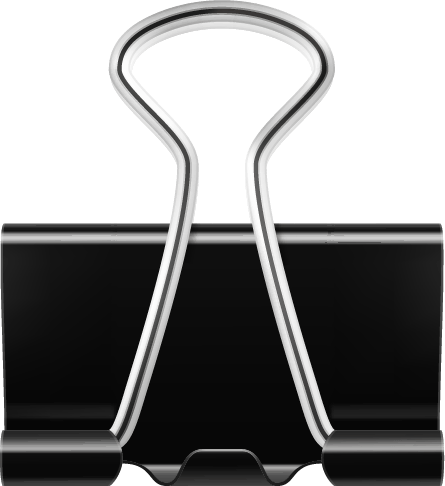
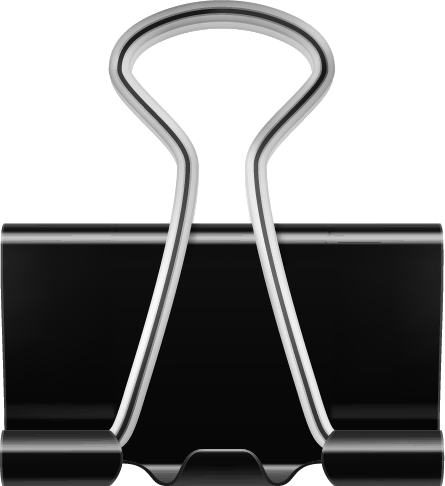
refactoring

Changed region(s): [[0.2337, 0.0, 0.7596, 0.2778]]

diff --git a/css/layout.css b/css/layout.css
@@ -1,1 +1,1 @@
-@media screen and (max-width: 1439px){#home{background:var(--color-pink-deep)}}#home main{background:var(--color-pink);box-shadow:0 0 0 calc(var(--unit)*4) var(--color-pink)}@media screen and (min-width: 1440px){#home main{margin:calc(var(--unit)*10) auto calc(var(--unit)*10)}}#home main #binder{position:absolute;top:calc(var(--unit)*-8.25);right:3rem;width:calc(var(--unit)*6.5);filter:drop-shadow(1px 2px 4px rgba(0, 0, 0, 0.48))}@media screen and (max-width: 1439px){#home main #binder{display:none}}@media(prefers-color-scheme: dark){#home main #binder{filter:drop-shadow(1px 2px 4px rgba(0, 0, 0, 0.48)) brightness(88%)}}#home #intro .cell:nth-child(1),#home #intro .cell:nth-child(3){grid-column:span 4}@media screen and (max-width: 1023px){#home #intro .cell:nth-child(1),#home #intro .cell:nth-child(3){grid-column:span 2}}#home #intro .cell:nth-child(2){justify-content:center}#home #intro .cell:nth-child(2) h3{margin:0}#home #intro .cell h2{margin:0}#home #highlight .tag{margin-top:calc(var(--unit)*.5)}#home h2{margin-top:calc(var(--unit)*4)}#home picture{grid-column:span 4}@media screen and (max-width: 1023px){#home picture{grid-column:span 2}}#home .cell{grid-column:span 2}#home .cell h3{margin-bottom:calc(var(--unit)*.25)}@media screen and (max-width: 1439px){#content{background:var(--color-background-deep)}}#content p,#content picture,#content hr{margin-bottom:calc(var(--unit)*3)}#content h2{margin-bottom:calc(var(--unit)*1)}#content h3{margin-bottom:calc(var(--unit)*.25)}#content .caption{margin:calc(var(--unit)*.5) 0 0}#content .cell h1:nth-last-child(1),#content .cell h2:nth-last-child(1),#content .cell h3:nth-last-child(1),#content .cell p:nth-last-child(1),#content .cell picture:nth-last-child(1),#content .cell hr:nth-last-child(1),#content .row h1:nth-last-child(1),#content .row h2:nth-last-child(1),#content .row h3:nth-last-child(1),#content .row p:nth-last-child(1),#content .row picture:nth-last-child(1),#content .row hr:nth-last-child(1){margin-bottom:0}#content .cell{grid-column:2/span 4}@media screen and (max-width: 1023px){#content .cell{grid-column:1/-1;margin:0 calc(var(--unit)*4)}}@media screen and (max-width: 644px){#content .cell{margin:0}}#content .cell:nth-child(1){grid-column:span 1;margin-bottom:calc(var(--unit)*3)}@media screen and (max-width: 1023px){#content .cell:nth-child(1){grid-column:1/-1;margin-right:0;margin-left:0}}#content .cell:nth-child(1) a{display:flex;align-items:center;gap:.25rem}#content .cell:nth-child(2){margin-bottom:calc(var(--unit)*3)}#content .cell .stacks{display:flex;flex-wrap:wrap;align-items:center;justify-content:center;gap:calc(var(--unit)*1.5);width:100%;margin-top:calc(var(--unit)*1.5)}#content .cell .stacks picture{width:48px;margin:0}
+@media screen and (max-width: 1439px){#home{background:var(--color-pink-deep)}}#home main{background:var(--color-pink);box-shadow:0 0 0 calc(var(--unit)*4) var(--color-pink)}@media screen and (min-width: 1440px){#home main{margin:calc(var(--unit)*10) auto calc(var(--unit)*10)}}#home main #binder{position:absolute;top:calc(var(--unit)*-8.5);right:3rem;width:calc(var(--unit)*6.5);transform:rotate(2deg);filter:drop-shadow(1px 2px 4px rgba(0, 0, 0, 0.48))}@media screen and (max-width: 1439px){#home main #binder{display:none}}@media(prefers-color-scheme: dark){#home main #binder{filter:drop-shadow(1px 2px 4px rgba(0, 0, 0, 0.48)) brightness(88%)}}#home #intro .cell:nth-child(1),#home #intro .cell:nth-child(3){grid-column:span 4}@media screen and (max-width: 1023px){#home #intro .cell:nth-child(1),#home #intro .cell:nth-child(3){grid-column:span 2}}#home #intro .cell:nth-child(2){justify-content:center}#home #intro .cell:nth-child(2) h3{margin:0}#home #intro .cell h2{margin:0}#home #highlight .tag{margin-top:calc(var(--unit)*.5)}#home h2{margin-top:calc(var(--unit)*4)}#home picture{grid-column:span 4}@media screen and (max-width: 1023px){#home picture{grid-column:span 2}}#home .cell{grid-column:span 2}#home .cell h3{margin-bottom:calc(var(--unit)*.25)}@media screen and (max-width: 1439px){#content{background:var(--color-background-deep)}}#content p,#content picture,#content hr{margin-bottom:calc(var(--unit)*3)}#content h2{margin-bottom:calc(var(--unit)*1)}#content h3{margin-bottom:calc(var(--unit)*.25)}#content .caption{margin:calc(var(--unit)*.5) 0 0}#content .cell h1:nth-last-child(1),#content .cell h2:nth-last-child(1),#content .cell h3:nth-last-child(1),#content .cell p:nth-last-child(1),#content .cell picture:nth-last-child(1),#content .cell hr:nth-last-child(1),#content .row h1:nth-last-child(1),#content .row h2:nth-last-child(1),#content .row h3:nth-last-child(1),#content .row p:nth-last-child(1),#content .row picture:nth-last-child(1),#content .row hr:nth-last-child(1){margin-bottom:0}#content .cell{grid-column:2/span 4}@media screen and (max-width: 1023px){#content .cell{grid-column:1/-1;margin:0 calc(var(--unit)*4)}}@media screen and (max-width: 644px){#content .cell{margin:0}}#content .cell:nth-child(1){grid-column:span 1;margin-bottom:calc(var(--unit)*3)}@media screen and (max-width: 1023px){#content .cell:nth-child(1){grid-column:1/-1;margin-right:0;margin-left:0}}#content .cell:nth-child(1) a{display:flex;align-items:center;gap:.25rem}#content .cell:nth-child(2){margin-bottom:calc(var(--unit)*3)}#content .cell .stacks{display:flex;flex-wrap:wrap;align-items:center;justify-content:center;gap:calc(var(--unit)*1.5);width:100%;margin-top:calc(var(--unit)*1.5)}#content .cell .stacks picture{width:48px;margin:0}

diff --git a/css/template.css b/css/template.css
@@ -1,1 +1,1 @@
-main{display:flex;flex-direction:column;max-width:var(--body);padding:calc(var(--unit)*8);margin:0 auto;background:var(--color-background);box-shadow:0 0 0 calc(var(--unit)*4) var(--color-background)}@media screen and (max-width: 1023px){main{padding:calc(var(--unit)*6) calc(var(--unit)*4)}}@media screen and (max-width: 644px){main{padding:calc(var(--unit)*6) calc(var(--unit)*2)}}main section{display:grid;grid-template-columns:repeat(6, 1fr);gap:calc(var(--unit)*4);margin-bottom:calc(var(--unit)*4)}@media screen and (max-width: 1439px){main section{gap:calc(var(--unit)*3)}}@media screen and (max-width: 1023px){main section{grid-template-columns:repeat(4, 1fr)}}@media screen and (max-width: 767px){main section{grid-template-columns:repeat(2, 1fr)}}main section:nth-child(1),main section:nth-last-child(1){margin-top:calc(var(--unit)*4)}main section .row,main section .cell{display:flex;flex-direction:column;align-items:flex-start}main section .row{grid-column:1/-1}main section #overview{padding:calc(var(--unit)*3);margin-bottom:calc(var(--unit)*3);background:var(--color-background);transform:rotate(1deg);filter:drop-shadow(1px 2px 3px rgba(0, 0, 0, 0.24))}@media(prefers-color-scheme: dark){main section #overview{filter:drop-shadow(1px 2px 3px rgba(0, 0, 0, 0.64))}}main section #overview #tape{position:absolute;top:calc(var(--unit)*-1);right:calc(var(--unit)*-3);width:calc(var(--unit)*10);opacity:.72;transform:rotate(24deg);filter:drop-shadow(1px 2px 1px rgba(0, 0, 0, 0.24))}@media(prefers-color-scheme: dark){main section #overview #tape{opacity:.48}}
+main{display:flex;flex-direction:column;max-width:var(--body);padding:calc(var(--unit)*8);margin:0 auto;background:var(--color-background);box-shadow:0 0 0 calc(var(--unit)*4) var(--color-background)}@media screen and (max-width: 1023px){main{padding:calc(var(--unit)*6) calc(var(--unit)*4)}}@media screen and (max-width: 644px){main{padding:calc(var(--unit)*6) calc(var(--unit)*2)}}main section{display:grid;grid-template-columns:repeat(6, 1fr);gap:calc(var(--unit)*4);margin-bottom:calc(var(--unit)*4)}@media screen and (max-width: 1439px){main section{gap:calc(var(--unit)*3)}}@media screen and (max-width: 1023px){main section{grid-template-columns:repeat(4, 1fr)}}@media screen and (max-width: 767px){main section{grid-template-columns:repeat(2, 1fr)}}main section:nth-child(1),main section:nth-last-child(1){margin-top:calc(var(--unit)*4)}main section .row,main section .cell{display:flex;flex-direction:column;align-items:flex-start}main section .row{grid-column:1/-1}main section #overview{padding:calc(var(--unit)*3);margin-bottom:calc(var(--unit)*3);background:var(--color-background);transform:rotate(-1.5deg);filter:drop-shadow(1px 2px 3px rgba(0, 0, 0, 0.24))}@media(prefers-color-scheme: dark){main section #overview{filter:drop-shadow(1px 2px 3px rgba(0, 0, 0, 0.64))}}main section #overview #tape{position:absolute;top:calc(var(--unit)*-1);right:calc(var(--unit)*-3);width:calc(var(--unit)*10);opacity:.72;transform:rotate(24deg);filter:drop-shadow(1px 2px 1px rgba(0, 0, 0, 0.24))}@media(prefers-color-scheme: dark){main section #overview #tape{opacity:.48}}

diff --git a/index.html b/index.html
@@ -101,16 +101,20 @@
                 </p>
             </div>
             <div class="cell">
+                <h3><svg width="24" height="24" viewBox="0 0 24 24" fill="none">
+                        <path
+                            d="M6 22C4.34315 22 3 20.6569 3 19V11C3 9.34317 4.34315 8.00002 6 8.00002H7V6.00006C7 3.23863 9.23858 1.00006 12 1.00006C14.7614 1.00006 17 3.23864 17 6.00006V8.00002H18C19.6569 8.00002 21 9.34317 21 11V19C21 20.6569 19.6569 22 18 22H6ZM10 15.0001C10 16.1046 10.8954 17.0001 12 17.0001C13.1046 17.0001 14 16.1046 14 15.0001C14 13.8955 13.1046 13.0001 12 13.0001C10.8954 13.0001 10 13.8955 10 15.0001ZM9.5 8.00002H14.5V6.00002C14.5 4.61931 13.3807 3.50002 12 3.50002C10.6193 3.50002 9.5 4.61931 9.5 6.00002V8.00002Z" />
+                    </svg>
+                    Story</h3>
+                <p>Enhanced product revenue through securing advertising items by incorporating an image-based feed
+                    and this expansion aims to diversify the content users can create. <date>Coming soon</date>
+                </p>
+            </div>
+            <div class="cell">
                 <h3><a href="https://apps.apple.com/us/app/%EB%B8%94%EB%9D%BC%EC%9D%B8%EB%93%9C-blind/id737534965"
                         target="_blank">Blind onboarding 2.0</a></h3>
                 <p>By implementing an enhanced onboarding process at Blind, Successfully expanded new user
                     acquisition and elevated brand identity to a higher level. <date>2023</date>
-                </p>
-            </div>
-            <div class="cell">
-                <h3><a href="https://www.teamblind.com/search/offer" target="_blank">Offer evaluation</a></h3>
-                <p>Stimulated user engagement through a new survey format for collecting user data,
-                    elevating data accuracy and refining total compensation data. <date>2023</date>
                 </p>
             </div>
         </section>
@@ -121,6 +125,12 @@
         <section id="project">
             <div class="row">
                 <h2>All projects</h2>
+            </div>
+            <div class="cell">
+                <h3><a href="https://www.teamblind.com/search/offer" target="_blank">Offer evaluation</a></h3>
+                <p>Stimulated user engagement through a new survey format for collecting user data,
+                    elevating data accuracy and refining total compensation data. <date>2023</date>
+                </p>
             </div>
             <div class="cell">
                 <h3><a href="https://apps.apple.com/us/app/%EB%B8%94%EB%9D%BC%EC%9D%B8%EB%93%9C-blind/id737534965"

diff --git a/scss/layout.scss b/scss/layout.scss
@@ -15,9 +15,10 @@
 		/* Binder */
 		#binder {
 			position: absolute;
-			top: calc(var(--unit) * -8.25);
+			top: calc(var(--unit) * -8.5);
 			right: 3rem;
 			width: calc(var(--unit) * 6.5);
+			transform: rotate(2deg);
 			filter: drop-shadow(1px 2px 4px rgba(0, 0, 0, .48));
 
 			@media screen and (max-width: 1439px) {

diff --git a/scss/template.scss b/scss/template.scss
@@ -55,7 +55,7 @@ main {
 			padding: calc(var(--unit) * 3);
 			margin-bottom: calc(var(--unit) * 3);
 			background: var(--color-background);
-			transform: rotate(1deg);
+			transform: rotate(-1.5deg);
 			filter: drop-shadow(1px 2px 3px rgba(0, 0, 0, .24));
 
 			@media (prefers-color-scheme: dark) {
